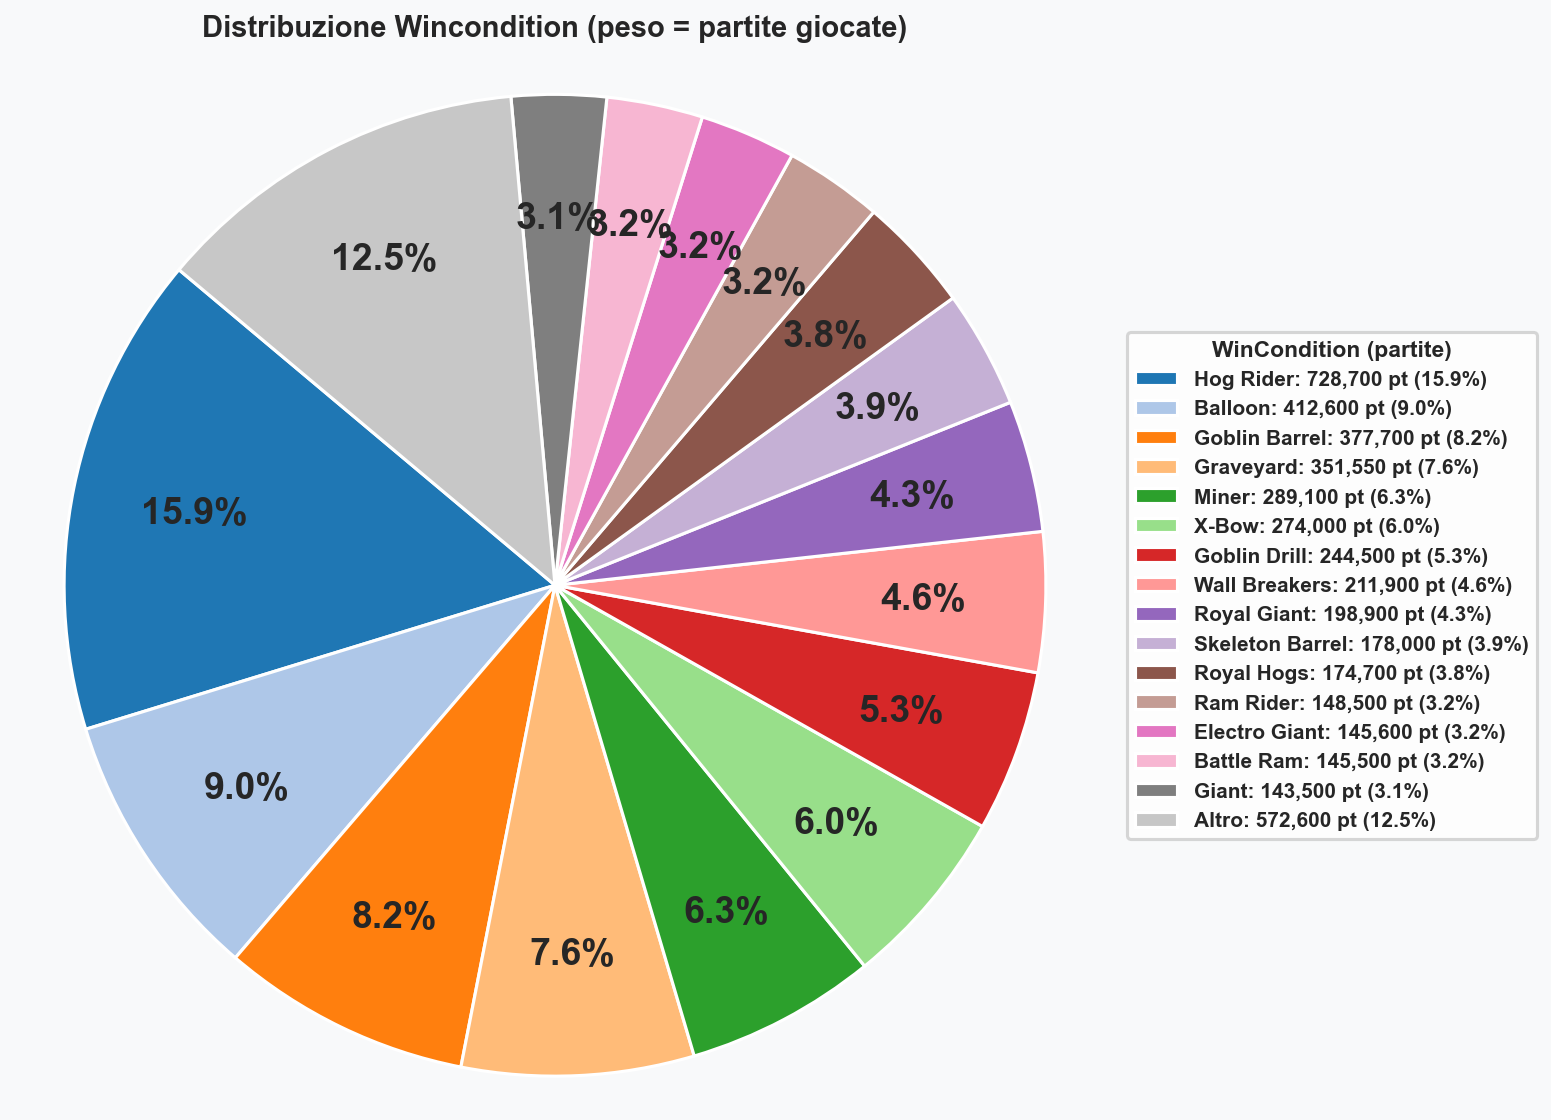
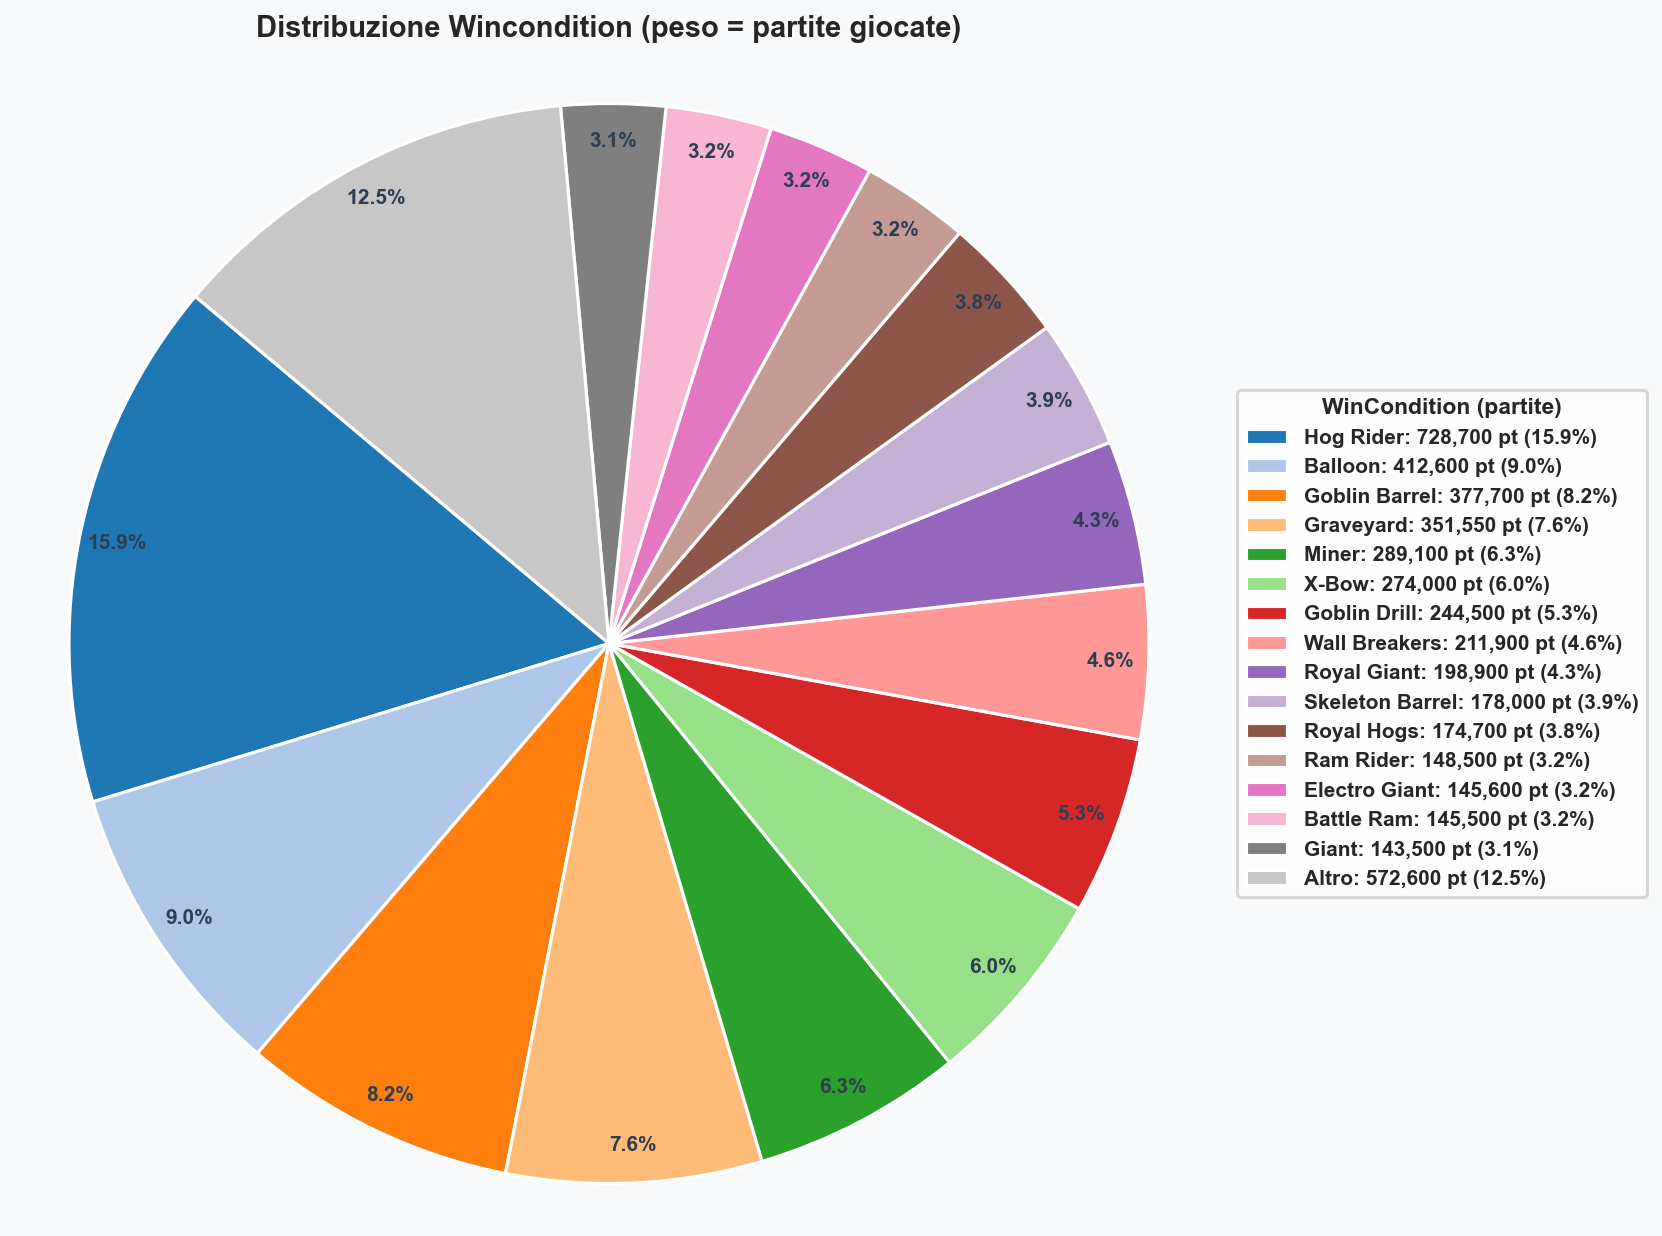
fix pie

diff --git a/main.py b/main.py
@@ -358,7 +358,7 @@ def grafico_wincondition_pie(df, top_n=15):
 
     # Stile coerente con gli altri grafici
     sns.set_style('whitegrid')
-    fig, ax = plt.subplots(figsize=(10, 9))
+    fig, ax = plt.subplots(figsize=(11, 10))
     fig.patch.set_facecolor('#f8f9fa')
 
     try:
@@ -366,10 +366,16 @@ def grafico_wincondition_pie(df, top_n=15):
     except Exception:
         colors = None
 
-    # Grafico a torta classico (senza buco), percentuali interne con autopct
-    wedges, texts, autotexts = ax.pie(sizes, startangle=140, colors=colors,
-                                      autopct='%1.1f%%', pctdistance=0.75,
-                                      wedgeprops=dict(edgecolor='white'))
+    # Percentuali posizionate sul bordo del pie
+    wedges, texts, autotexts = ax.pie(
+        sizes,
+        startangle=140,
+        colors=colors,
+        autopct='%1.1f%%',
+        pctdistance=0.93,
+        wedgeprops=dict(edgecolor='white'),
+        textprops=dict(fontsize=10, fontweight='bold', color='#2c3e50')
+    )
 
     ax.axis('equal')
     ax.set_title('Distribuzione Wincondition (peso = partite giocate)', fontsize=14, fontweight='bold', pad=14)
